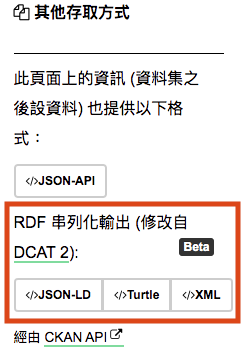
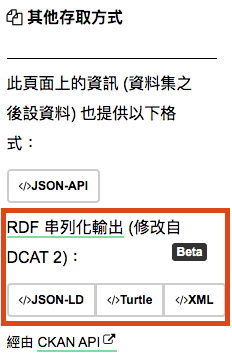
Doc: add a link to doc

Changed region(s): [[0.0, 0.4648, 0.9957, 0.9915], [0.0302, 0.1549, 0.9353, 0.4338], [0.0, 0.0, 0.5431, 0.093]]

diff --git a/doc_en/user-guide.rst b/doc_en/user-guide.rst
@@ -628,6 +628,8 @@ You can get access to DataStore API through the following steps:
 
     .. image:: /images/data_api_3.png
 
+.. _rdf_serializations:
+
 RDF Serializations
 ==================
 
